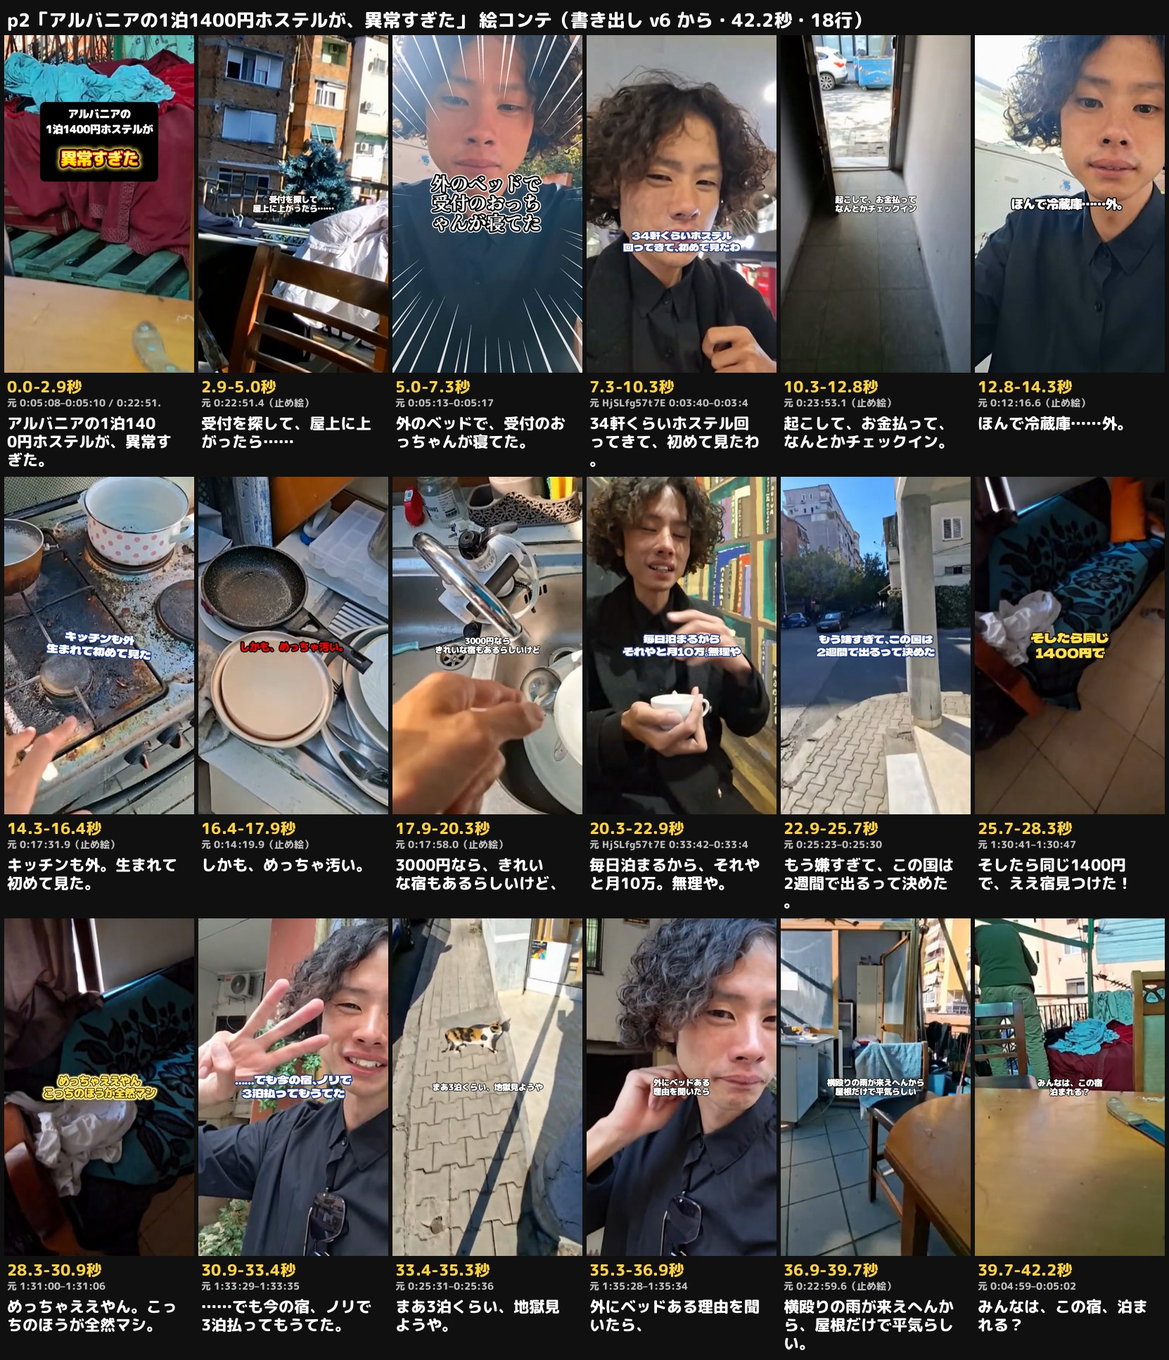
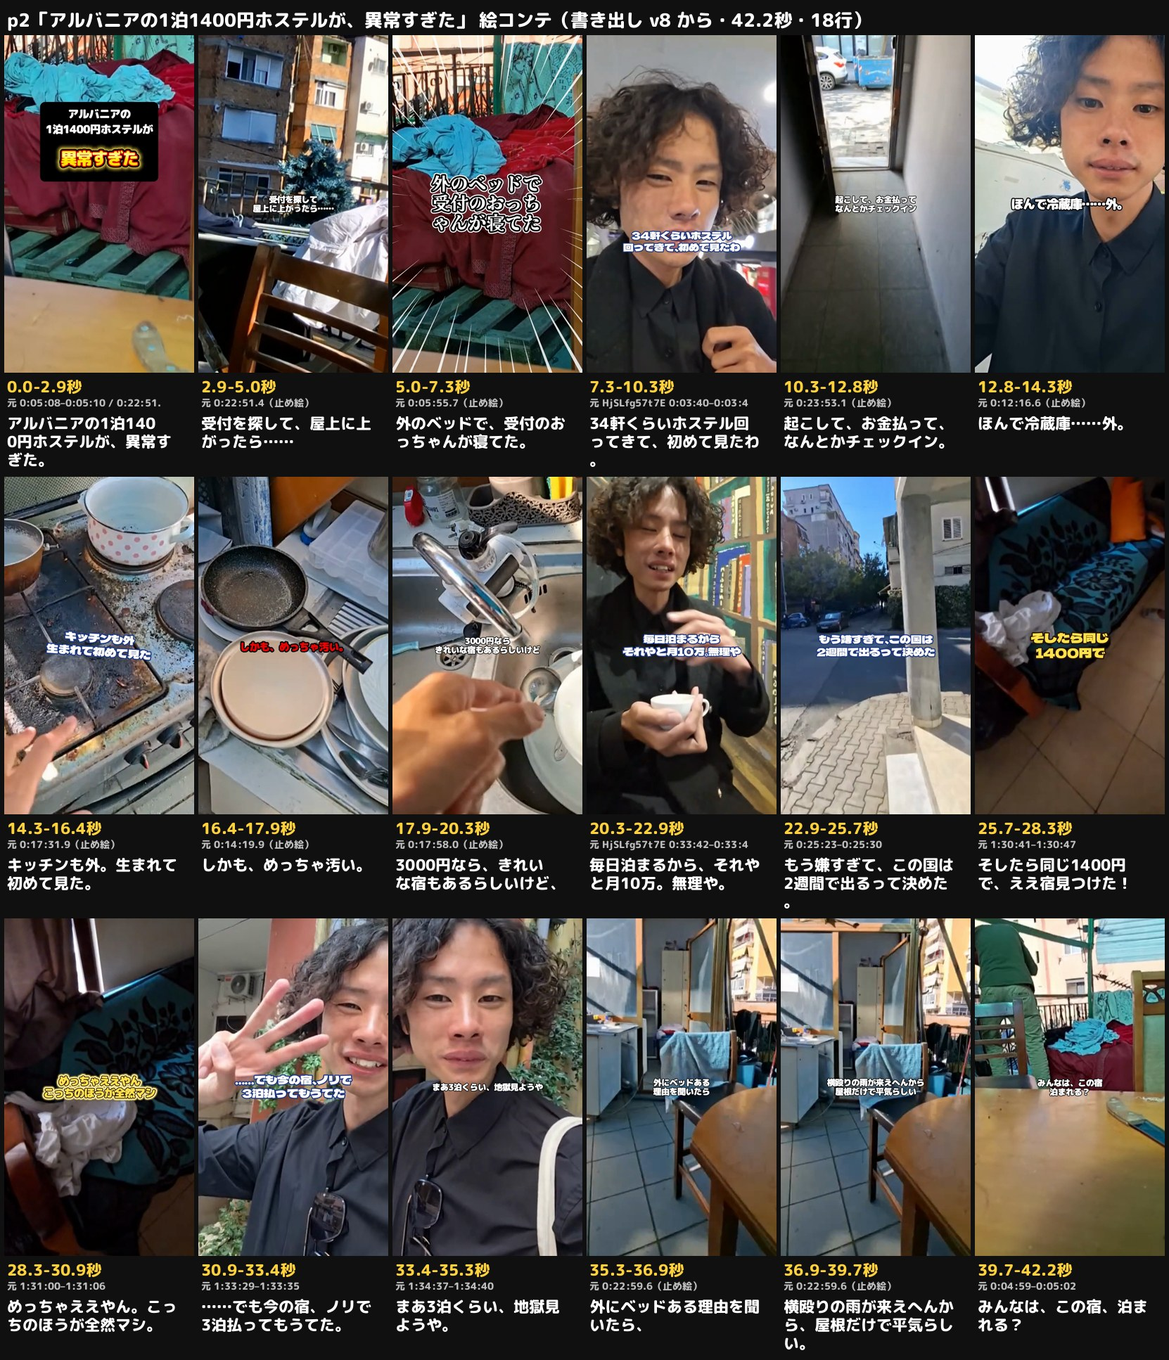
最安ホステルの回 p2 の3行目をベッドに、15行目を言っているところに、16〜17行を1つの止め絵に
3行目「外のベッドで、受付のおっちゃんが寝てた」は題の答えなのに本人の顔だった。
ベッドは題の主役なので、頭・3行目・終わりの3回だけ、撮りかたを変えて出す
（3行目はパレットの上のベッドを正面寄りから。合わせて 6.6秒・16%）。
15行目「地獄見ようや」は通りの猫で言葉とつながっていなかったので、本人が
それを言い直している 1:34:37 に替え、字幕と同じ高さの店の看板は寄る先を右へずらして外に出した。
14〜16行が本人の顔の3連続になるので、16行目は17行目の屋根の止め絵を前に延ばして
行の境で切らない1つの引きにした。16本の検査は顔のほか全部合格。

Claude-Session: https://claude.ai/code/session_01Hh4cxfbq4AWxWNpUMPz7HB

Changed region(s): [[0.3375, 0.6515, 0.8285, 0.9617], [0.3375, 0.0, 0.5217, 0.3102], [0.7365, 0.8066, 0.7671, 0.8376]]

diff --git a/shorts/videos/zjHZucyfrq8/p2/qa_p2.md b/shorts/videos/zjHZucyfrq8/p2/qa_p2.md
@@ -1,11 +1,11 @@
-# 最安ホステルの回 p2 の本編集の検査（2026-10-19・下見の版 v6・画の作り直し）
+# 最安ホステルの回 p2 の本編集の検査（2026-10-19・下見の版 v8・画の作り直し）
 
 原稿はあやとが決めたもの（[#959 のコメント](https://github.com/Ayato-kosaka/live-streaming/issues/959#issuecomment-6267673561)。p1 の2行を消して、それ以外はそのまま）を、
 `script.txt` の18行・300字のまま使った。動画・声・BGM・素材・顔の切り抜きはリポジトリに入れない（作業箱のスクラッチパッドにだけ置いた）。
 
-**声は仮。** Fish Audio の無料枠は 1〜11行ぶんで尽きた（`plan.md` の「声」）。この版は Open JTalk の仮の声
-（`build_edit.py` の下書きの声）で組んだ。12〜18行が作れたら `build_edit.py --voice <lines.json> --plan p2` で
-声だけを差し替えて書き出し直す（画と上書きはこのまま。尺は声で変わる）。
+**声は仮。** Fish Audio の無料枠は 1〜11行ぶんで尽きた（`plan.md` の「声」）。`build_edit.py` は声の数と行の数が
+合わないと止まる（Fish の11行と仮の声の7行を混ぜられない）ので、この版は18行とも Open JTalk の仮の声で組んだ。
+12〜18行が作れたら `build_edit.py --voice <lines.json> --plan p2` で声だけを差し替えて書き出し直す（画と上書きはこのまま。尺は声で変わる）。
 
 ## なぜ作り直したか
 
@@ -19,28 +19,36 @@
 
 ## どう直したか
 
-1. **宿の物（廊下・冷蔵庫・コンロ・フライパン・流し・屋根）は止め絵にした。** その物はカクつく区間にしか写っていない。
+1. **宿の物（廊下・冷蔵庫・コンロ・フライパン・流し・屋根・3行目のベッド）は止め絵にした。** その物はカクつく区間にしか写っていない。
    前の版で1秒刻みに確かめた区間（第三者の顔・吹き出しが無い）の中で、いちばんくっきりした1コマ
    （帯と透かしの行を除いたラプラシアンの分散が最大のコマ）を切り、書き出しでゆっくり寄せる・引く（交互）。
-   止め絵は中身が跳ばないのでカクつかない。廊下だけは 0:23:54 から外の通りに人とスクーターが写るので、0:23:52.6〜0:23:53.6 から選んだ
+   止め絵は中身が跳ばないのでカクつかない。寄らずに止めて切り出す手（v3）は、中身の絵が4〜6コマ止まっては跳ぶのが変わらず、
+   カクつきの検査で18区間のうち7区間が 73〜80%（実質 5.9〜8.2fps）で落ちた。廊下だけは 0:23:54 から外の通りに人とスクーターが写るので、0:23:52.6〜0:23:53.6 から選んだ
 2. **動く画は、線の内の秒だけを使った。** 冒頭のベッドの寄りは 0:05:08.2〜0:05:10.1 に縮めた（0:05:07.4〜0:05:08.1 は指がレンズに掛かり、
    0:05:10.33 から 0.5秒止まる）。足りない 0.97秒は、2行目の屋上の止め絵を前に延ばして、行の境で切らずに1つの寄りとして続けた
    （境の前後のコマの差は 1.82〜1.95 で揃っていて、跳びは無い）。通りは 0:25:22（70%）を外して 0:25:23 から
-3. **屋上のベッドは頭と終わりだけ。** 間の行には出さない
+3. **屋上のベッドは、頭・3行目（題の答え）・終わりの3回。** 3つとも別の撮りかた（頭は横からの寄り、3行目はパレットの上のベッドを正面寄りから、
+   終わりは受付の人が立つ引き）。合わせて 6.63秒（16%）
+4. **言葉と画を合わせた。** 3行目「外のベッドで、受付のおっちゃんが寝てた」は本人の顔をやめてベッドに（大きい字はそのまま）。
+   15行目「まあ3泊くらい、地獄見ようや」は、本人がそれを言い直している 1:34:37 から（1:34:30 に1度言って、1:34:37 でもう1度）。
+   左の店の看板（ROBO…）が字幕と同じ高さに入るので、寄る先を右（x 0.66）へずらして外に出した
+5. **本人の顔を3つ続けない。** 16行目は17行目の屋根の止め絵を前に延ばし、16〜17行を行の境で切らない1つの引き（1.42→1.27倍）にした
+   （境の前後のコマの差は 1.19〜1.32 で揃っている）
 
 止め絵（作業箱の `stills/index.json`。窓の時刻は 20:00:00 から1分おきの仮の時刻で、元の時刻は `source_time`）:
 
 | 行 | 元の区間 | 使ったコマ |
 | --- | --- | --- |
-| 2 | 本編 0:22:49.5〜0:22:53.0 | 0:22:51.400 |
+| 1〜2 | 本編 0:22:49.5〜0:22:53.0 | 0:22:51.400 |
+| 3 | 本編 0:05:54.6〜0:05:56.6 | 0:05:55.700 |
 | 5 | 本編 0:23:52.6〜0:23:53.6 | 0:23:53.133 |
 | 6 | 本編 0:12:16.5〜0:12:19.0 | 0:12:16.600 |
 | 7 | 本編 0:17:30.5〜0:17:33.5 | 0:17:31.867 |
 | 8 | 本編 0:14:16.5〜0:14:20.5 | 0:14:19.900 |
 | 9 | 本編 0:17:58.0〜0:18:01.5 | 0:17:58.000 |
-| 17 | 本編 0:22:59.5〜0:23:03.0 | 0:22:59.633 |
+| 16〜17 | 本編 0:22:59.5〜0:23:03.0 | 0:22:59.633 |
 
-## カットの一覧（v6）
+## カットの一覧（v8）
 
 繰り返しは `check.py` の `source_stutter`（8d13c4b1 で入ったもの）が測った値。止め絵は動きが無いので数えない。
 
@@ -48,10 +56,10 @@
 | --- | --- | --- | --- | --- | --- | --- |
 | 0.00〜1.90 | 1 | 本編 0:05:08.2〜0:05:10.1 | 1.90 | 23%（23.0） | 寄る 1.27→1.33 | 屋上のベッドの寄り（題の札の後ろ） |
 | 1.90〜5.03 | 1〜2 | 止め絵 本編 0:22:51.4 | 3.13 | 止め絵 | 寄る 1.27→1.37（行の境で切らない） | 屋上の全体（まわりの建物・干した服） |
-| 5.03〜7.33 | 3 | 本編 0:05:13.0〜0:05:15.3 | 2.30 | 44%（16.8） | 止め 1.27 | 屋上で話す本人（大きい字） |
+| 5.03〜7.33 | 3 | 止め絵 本編 0:05:55.7 | 2.30 | 止め絵 | 寄る 1.27→1.38 | 屋上の外のベッド（パレットの上の赤い毛布）・大きい字 |
 | 7.33〜10.27 | 4 | 着いた日の回 0:03:40.0〜0:03:42.9 | 2.93 | 0%（30.0） | 寄る 1.0→1.08 | 夜の空港を歩く本人 |
-| 10.27〜12.83 | 5 | 止め絵 本編 0:23:53.1 | 2.57 | 止め絵 | 寄る 1.27→1.38 | 宿の暗い廊下（出口の光） |
-| 12.83〜14.33 | 6 | 止め絵 本編 0:12:16.6 | 1.50 | 止め絵 | 引く 1.38→1.27 | 白い冷蔵庫の前の本人 |
+| 10.27〜12.83 | 5 | 止め絵 本編 0:23:53.1 | 2.57 | 止め絵 | 寄る | 宿の暗い廊下（出口の光） |
+| 12.83〜14.33 | 6 | 止め絵 本編 0:12:16.6 | 1.50 | 止め絵 | 引く | 白い冷蔵庫の前の本人 |
 | 14.33〜16.43 | 7 | 止め絵 本編 0:17:31.9 | 2.10 | 止め絵 | 寄る | 屋外のコンロ（焦げと錆） |
 | 16.43〜17.90 | 8 | 止め絵 本編 0:14:19.9 | 1.47 | 止め絵 | 引く | 積んだフライパンと皿 |
 | 17.90〜20.27 | 9 | 止め絵 本編 0:17:58.0 | 2.37 | 止め絵 | 寄る | 汚れた流し |
@@ -59,34 +67,34 @@
 | 22.93〜25.73 | 11 | 本編 0:25:23.0〜0:25:25.8 | 2.80 | 49%（15.2） | 寄る | 宿の近くの通り |
 | 25.73〜28.30 | 12 | 本編 1:30:41.0〜1:30:43.6 | 2.57 | 21%（23.7） | 寄る | 見学した宿の部屋 |
 | 28.30〜30.90 | 13 | 本編 1:31:00.0〜1:31:02.6 | 2.60 | 19%（24.5） | 寄る | 同じ部屋の寄り |
-| 30.90〜33.37 | 14 | 本編 1:33:29.0〜1:33:31.5 | 2.47 | 49%（15.2） | 寄る | 頭に手をやって苦笑い |
-| 33.37〜35.30 | 15 | 本編 0:25:31.0〜0:25:32.9 | 1.93 | 49%（15.3） | 寄る | 歩道の猫 |
-| 35.30〜36.93 | 16 | 本編 1:35:28.0〜1:35:29.6 | 1.63 | 50%（15.0） | 寄る | 外で話す本人 |
-| 36.93〜39.73 | 17 | 止め絵 本編 0:22:59.6 | 2.80 | 止め絵 | 引く | 屋根の枠だけの屋外のキッチン |
+| 30.90〜33.37 | 14 | 本編 1:33:29.0〜1:33:31.5 | 2.47 | 49%（15.2） | 寄る | 頭に手をやって苦笑い・指を3本 |
+| 33.37〜35.30 | 15 | 本編 1:34:37.0〜1:34:38.9 | 1.93 | 49%（15.3） | 寄る（右へ） | 「地獄見ようや」と言っている本人 |
+| 35.30〜39.73 | 16〜17 | 止め絵 本編 0:22:59.6 | 4.43 | 止め絵 | 引く 1.42→1.27（行の境で切らない） | 屋根の枠だけの屋外のキッチン |
 | 39.73〜42.17 | 18 | 本編 0:04:59.2〜0:05:01.6 | 2.43 | 14%（25.8） | 寄る 1.5→1.56 | 屋上のベッドの引き（受付の人は後ろ姿） |
 
-同じ画（人の目で束ねたもの。検査の束ね方より広く取った）:
+同じ画（人の目で束ねたもの。検査は色と形で束ねるので、ベッドの3つも別の画と数えた）:
 
 | 画 | 回数 | 合わせた秒 | 全体に占める割合 |
 | --- | --- | --- | --- |
-| 宿の近くの通り（11・15行） | 2 | 4.73 | 11% |
-| 屋上のベッド（頭の寄り・終わりの引き） | 2 | 4.33 | 10% |
+| 屋上のベッド（頭・3行目・終わり。撮りかたは3つとも別） | 3 | 6.63 | 16% |
 | 見学した宿の部屋（12・13行。続けて並ぶので1回） | 1 | 5.17 | 12% |
+| 屋根の枠のキッチン（16〜17行。行の境で切らない1つの引き） | 1 | 4.43 | 11% |
 | 屋上の全体（1〜2行。行の境で切らない1つの寄り） | 1 | 3.13 | 7% |
-| ほかの12カット | 1 | 1.47〜2.93 | 3〜7% |
+| ほかの10カット | 1 | 1.47〜2.93 | 3〜7% |
 
 ## 何を書き出したか
 
 | | |
 | --- | --- |
[2 lines of base64/hex data omitted]
 | 長さ | 42.17秒（1080x1920・30fps）。仮の声を上限の倍率 1.4 で読ませた長さ |
 | 指示書 | `edit_p2.json`（build_edit.py が `spec.json`・`overrides.json` から組んだもの） |
 | 様式 | `tools/shorts/render/style_v3.json` |
 | 声 | Open JTalk（仮）。倍率 1.4（様式の上限） |
 | BGM | クシコス・ポスト（OtoLogic・Csikos_Post-Xy02 の Fast）。様式どおり |
-| 素材 | `shorts/requests/2026-10-19-zj-p2-clips.json`・`…-clips2-main.json`・`…-clips2-arrival.json` の区間と、そこから切った止め絵7枚。暗号文は復号したあと下ろした |
-| 下見 | `zj-p2-v6`（Hosting のプレビューチャンネル。2026-10-27 02:24 JST まで。スマホ幅 390px で再生を確かめた） |
+| 素材 | `shorts/requests/2026-10-19-zj-p2-clips.json`・`…-clips2-main.json`・`…-clips2-arrival.json` の区間と、そこから切った止め絵8枚。暗号文は復号したあと下ろした |
+| 絵コンテ | `storyboard_p2.jpg` は書き出しの各行の真ん中のコマ（アーカイブの10秒おきのシートからだと止め絵の秒とずれるため）。`table_p2.md` の秒は原稿の物差し（毎秒6.8字）での割り付け |
+| 下見 | `zj-p2-v8`（Hosting のプレビューチャンネル。2026-10-27 02:59 JST まで。スマホ幅 390px で再生を確かめた） |
 
 ## 原稿どおりか
 
@@ -105,30 +113,27 @@
 | 字の重なり（強調の字の言い直し） | 合格 | 強調の字 0 個・同時に出る字との組 0・いちばん重なる 0% |
 | 字の置き場（安全領域） | 合格 | 字の絵 210 枚・字なしとの差 448コマ |
 | 透かし（PRISM Live） | 合格 | 141 コマで見つからない（いちばん似ている 0.285） |
-| 顔（ぼかし） | 人が見る | ぼかしていない顔 11 件（配信者本人か、人が見る） |
-| 字と顔（被り） | 合格 | 字の出ている 1174コマで顔のあるコマ 411・字の箱 216 枚・重なり 0 |
+| 顔（ぼかし） | 人が見る | ぼかしていない顔 9 件（配信者本人か、人が見る） |
+| 字と顔（被り） | 合格 | 字の出ている 1174コマで顔のあるコマ 351・字の箱 216 枚・重なり 0 |
 | 黒いコマ | 合格 | 黒いコマ 0 / 1265 |
 | 止まったコマ | 合格 | いちばん長く止まった間 0.13 秒 |
-| 元素材のカクつき | 合格 | 繰り返しがいちばん多い区間 50%（実質 15.0fps・35.3〜36.9秒）／線 60% を越える区間 0 / 11（止まった画 8 区間は数えない） |
-| 同じ画の使い回し | 合格 | いちばん多い画 4.7秒（11%）・2回／線 25%・3回 |
+| 元素材のカクつき | 合格 | 繰り返しがいちばん多い区間 49%（実質 15.2fps・22.9〜25.7秒）／線 60% を越える区間 0 / 9（止まった画 10 区間は数えない） |
+| 同じ画の使い回し | 合格 | 2回以上出る画は無い（19 カット） |
 | 無音 | 合格 | いちばん長い無音 0.1 秒 |
 | 音割れ | 合格 | 0dBFS の張り付き 0 か所 / ピーク -1.91 dBFS / 声の平らな頂点 0 |
 | 元音声の漏れ | 合格 | 元音声 -120.0 dBFS（ナレーションより 103.53dB 小さい・stem_source） |
 
-前の版（v3。カクつく区間を寄らずに止めた切り出しにしたもの）は、カクつきの検査で **18区間のうち7区間が 73〜80%（実質 5.9〜8.2fps）** で落ちた。
-止めて切り出しても、中身の絵が4〜6コマ止まっては跳ぶのは変わらない。
-
-顔の11件は切り抜きを全部見た。5件は配信者本人（5.60・12.83・21.23・31.27・35.93秒）、3件は本人の髪（7.93・22.17・31.50秒）、
-3件は顔ではない（歩道のひび 24.73・窓の枠 33.37・猫 35.23秒）。第三者の顔は無い。屋上の人（1・18行目）は後ろ姿だけ。
+顔の9件は切り抜きを全部見た。5件は配信者本人（8.17・12.83・21.23・31.27・33.60秒）、3件は本人の髪（7.93・22.17・31.50秒）、
+1件は歩道のひび（24.73秒）。第三者の顔は無い。屋上の人（3行目は脚だけ、18行目は後ろ姿）の顔は写らない。
 
 ## 人の目の検査（書き出しを1秒に1コマ並べた絵を全コマ見た）
 
 | 見るもの | 結果 |
 | --- | --- |
-| 上の帯「ヨーロッパの北朝鮮！？ アルバニアって国きたら最悪すぎた」 | 43コマとも写っていない。本編のカット（止め絵を含む）は 1.27倍以上で下の端に合わせ、ベッドの引きは 1.5倍でベッドを画面の 0.4 に置いて、帯を外に出した |
+| 上の帯「ヨーロッパの北朝鮮！？ アルバニアって国きたら最悪すぎた」 | 43コマとも写っていない。本編のカット（止め絵を含む）は 1.27倍以上で下の端に合わせ、ベッドの引きは 1.5倍でベッドを画面の 0.4 に置いて、帯を外に出した。3行目の止め絵は寄り始めのコマを等倍で切り出して上の端を見た（手すりと布だけ） |
 | PRISM Live の透かし | 写っていない（書き出しが下の帯ごと切る。機械の検査も合格） |
 | アカウント名つきの吹き出し | 写っていない。9/30 の回の画は使っていない |
-| 字幕が画面の中の別の字に重なっていないか | 重なりなし。お札は使っていない。屋根の枠のキッチン（17行）の白い貼り紙は字幕より上 |
-| 言葉の物がその行の画に写っているか | 屋上（2）・受付のおっちゃんの話をする本人（3）・宿の廊下（5）・冷蔵庫（6）・コンロ（7）・汚いフライパン（8）・流し（9）・見学した宿の部屋（12・13）・屋根の枠（17）・外のベッド（1・18） |
+| 字幕が画面の中の別の字に重なっていないか | 重なりなし。お札は使っていない。15行目は店の看板を画の外へ出した。屋根の枠のキッチン（16〜17行）の白い貼り紙は字幕より上 |
+| 言葉の物がその行の画に写っているか | 屋上（2）・外のベッド（1・3・18）・宿の廊下（5）・冷蔵庫（6）・コンロ（7）・汚いフライパン（8）・流し（9）・見学した宿の部屋（12・13）・3泊の指（14）・言っている本人（15）・屋根の枠（16〜17） |
 | 第三者 | 写っていない（廊下の止め絵は外の通りに人の出ない 0:23:53 のコマ） |
-| 屋上のベッド | 頭（0〜1.9秒）と終わり（39.7秒〜）だけ |
+| 本人の顔が続くところ | 14・15行の2つまで（16行目は屋根の止め絵） |

diff --git a/shorts/videos/zjHZucyfrq8/p2/table_p2.md b/shorts/videos/zjHZucyfrq8/p2/table_p2.md
@@ -2,7 +2,7 @@
 | --- | --- | --- | --- | --- | --- | --- |
 | 0.0–3.6秒 | 0:05:08–0:05:10 / 0:22:51.4（止め絵） | 屋上のベッドの寄り（赤い毛布・パレット・手すりの向こうに街）。題の札の下でもベッドが見える。0秒目の画。0:05:07.4〜0:05:08.1 は指がレンズに掛かり、0:05:10.2 からはテーブルへ振れて 0.5秒止まる → 【止め絵 本編 0:22:51.4】屋上の全体。2行目の頭まで同じ寄りを続ける（行の境で切らずに1つの画に見せる）。ベッドの引き（0:04:59）は題の札にベッドが隠れるので使わない（元の区間はカクつくので止め絵にした） | アルバニアの1泊1400円ホステルが、異常すぎた。 | 23 | 題の札（4秒まで） | 0コマ目から札。ベッドの寄りから、2行目の屋上の止め絵へ（行の境で切らずに寄りを続ける） |
 | 3.6–5.9秒 | 0:22:51.4（止め絵） | 【止め絵 本編 0:22:51.4】屋上の全体（青空・まわりの建物・干した服）。1行目の終わりからの寄りを続ける（元の区間はカクつくので止め絵にした） | 受付を探して、屋上に上がったら…… | 14 |  |  |
-| 5.9–8.8秒 | 0:05:13–0:05:17 | 屋上で話す本人（大きい字の後ろ）。ベッドは写さない | 外のベッドで、受付のおっちゃんが寝てた。 | 18 |  | 本人の顔に大きい字 |
+| 5.9–8.8秒 | 0:05:55.7（止め絵） | 【止め絵 本編 0:05:55.7】屋上の外のベッド（パレットの上の赤い毛布）。受付の人は脚だけ。大きい字の後ろで寄る（元の区間はカクつくので止め絵にした） | 外のベッドで、受付のおっちゃんが寝てた。 | 18 |  | 外のベッドに大きい字 |
 | 8.8–12.2秒 | HjSLfg57t7E 0:03:40–0:03:46 | 【着いた日の回 0:03:40】夜の空港を歩く本人 | 34軒くらいホステル回ってきて、初めて見たわ。 | 21 |  |  |
 | 12.2–15.2秒 | 0:23:53.1（止め絵） | 【止め絵 本編 0:23:53.1】宿の暗い廊下（出口の光）。チェックインした宿の中。寄る（元の区間はカクつくので止め絵にした） | 起こして、お金払って、なんとかチェックイン。 | 19 |  |  |
 | 15.2–16.5秒 | 0:12:16.6（止め絵） | 【止め絵 本編 0:12:16.6】屋根の下の白い冷蔵庫の前の本人。冷蔵庫が画の左にあるので寄る先を左へ。引く（元の区間はカクつくので止め絵にした） | ほんで冷蔵庫……外。 | 7 |  |  |
@@ -14,9 +14,9 @@
 | 30.0–33.0秒 | 1:30:41–1:30:47 | 見学した宿の部屋（青緑のソファベッド） | そしたら同じ1400円で、ええ宿見つけた！ | 19 |  |  |
 | 33.0–36.0秒 | 1:31:00–1:31:06 | 同じ部屋の寄り（窓とソファベッド） | めっちゃええやん。こっちのほうが全然マシ。 | 19 |  |  |
 | 36.0–38.8秒 | 1:33:29–1:33:35 | 頭に手をやって苦笑い | ……でも今の宿、ノリで3泊払ってもうてた。 | 17 |  | …と思ったら |
-| 38.8–41.0秒 | 0:25:31–0:25:36 | 宿の近くの通り（歩道の猫） | まあ3泊くらい、地獄見ようや。 | 13 |  |  |
-| 41.0–43.3秒 | 1:35:28–1:35:34 | 外で話す本人 | 外にベッドある理由を聞いたら、 | 14 |  |  |
-| 43.3–46.8秒 | 0:22:59.6（止め絵） | 【止め絵 本編 0:22:59.6】屋根の枠だけの屋外のキッチン（壁が無い）。引いて屋根の枠を見せる（元の区間はカクつくので止め絵にした） | 横殴りの雨が来えへんから、屋根だけで平気らしい。 | 22 |  |  |
+| 38.8–41.0秒 | 1:34:37–1:34:40 | 「3泊ぐらいちょっと地獄見ようせ」と言い直しているところ（1:34:30 に1度言って、1:34:37 でもう1度）。左の店の看板（ROBO…）が字幕と同じ高さに入るので、寄る先を右へずらして外に出す | まあ3泊くらい、地獄見ようや。 | 13 |  |  |
+| 41.0–43.3秒 | 0:22:59.6（止め絵） | 【止め絵 本編 0:22:59.6】屋根の枠だけの屋外のキッチン。17行目まで同じ引きを続ける（元の区間はカクつくので止め絵にした） | 外にベッドある理由を聞いたら、 | 14 |  |  |
+| 43.3–46.8秒 | 0:22:59.6（止め絵） | 【止め絵 本編 0:22:59.6】屋根の枠だけの屋外のキッチン（壁が無い）。16行目からの引きを続けて屋根の枠を見せる（元の区間はカクつくので止め絵にした） | 横殴りの雨が来えへんから、屋根だけで平気らしい。 | 22 |  |  |
 | 46.8–48.6秒 | 0:04:59–0:05:02 | 冒頭と同じ屋上のベッド。冒頭の画に戻して切る | みんなは、この宿、泊まれる？ | 11 |  | 冒頭の画に戻して切る |
 
 合計 **48.6秒**・ナレーション **300字**（声を上限の 1.4倍で読んだ毎秒6.8字で割り付け、行のあいだの0.25秒と画だけの間を足した長さ）
